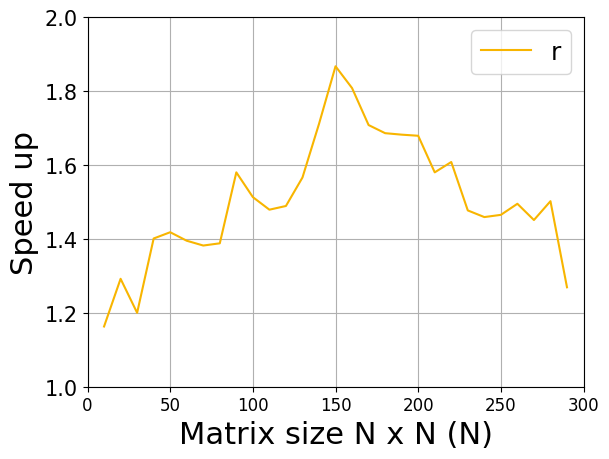
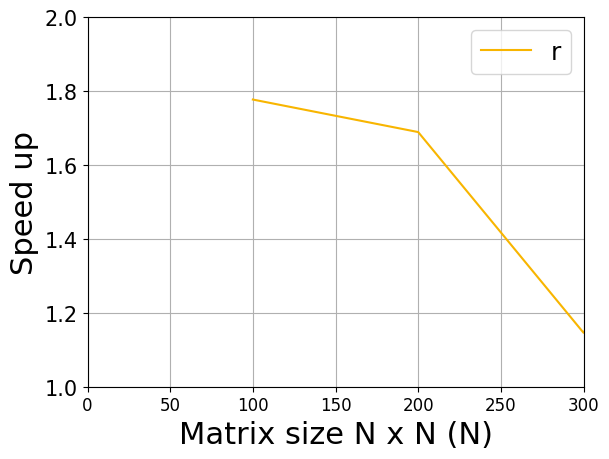
update graph

diff --git a/mk_graph.py b/mk_graph.py
@@ -19,7 +19,7 @@ print(df)
 colorlist = ["#2ca9e1","#e95295","#aacf53","#f8b500"]
 
 data = df["r"]
-m_size=range(10,300,10)
+m_size=range(100,3100,100)
 
 plt.axhline(y=0)
 plt.ylim(ymax=2.0)
